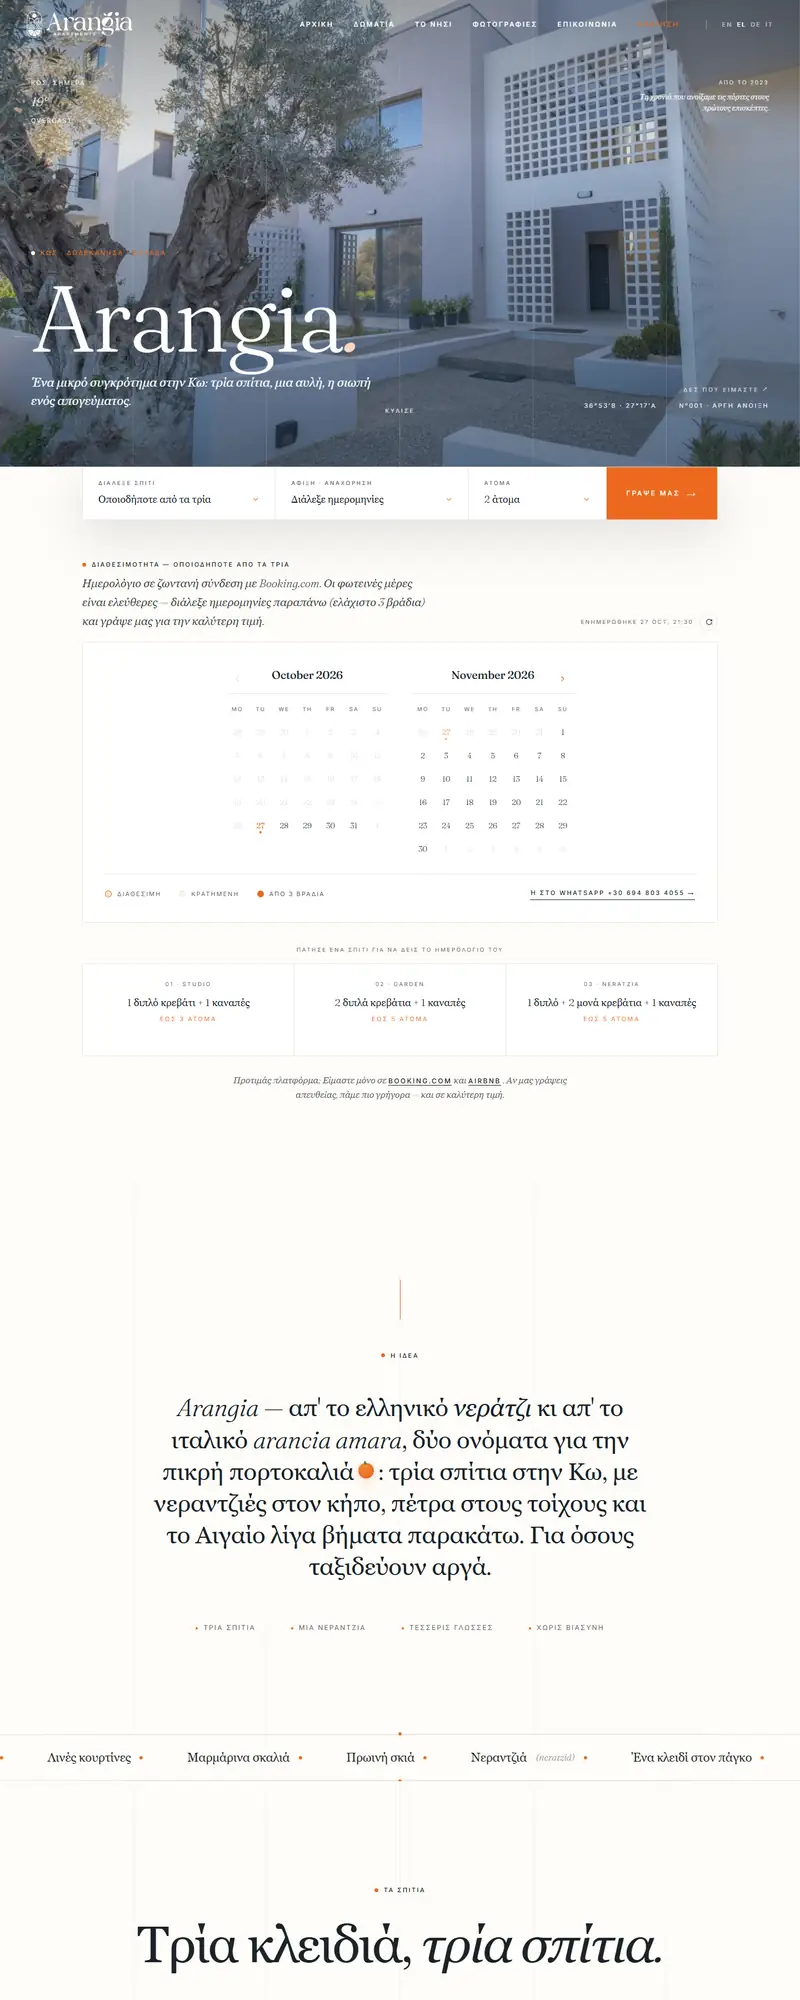
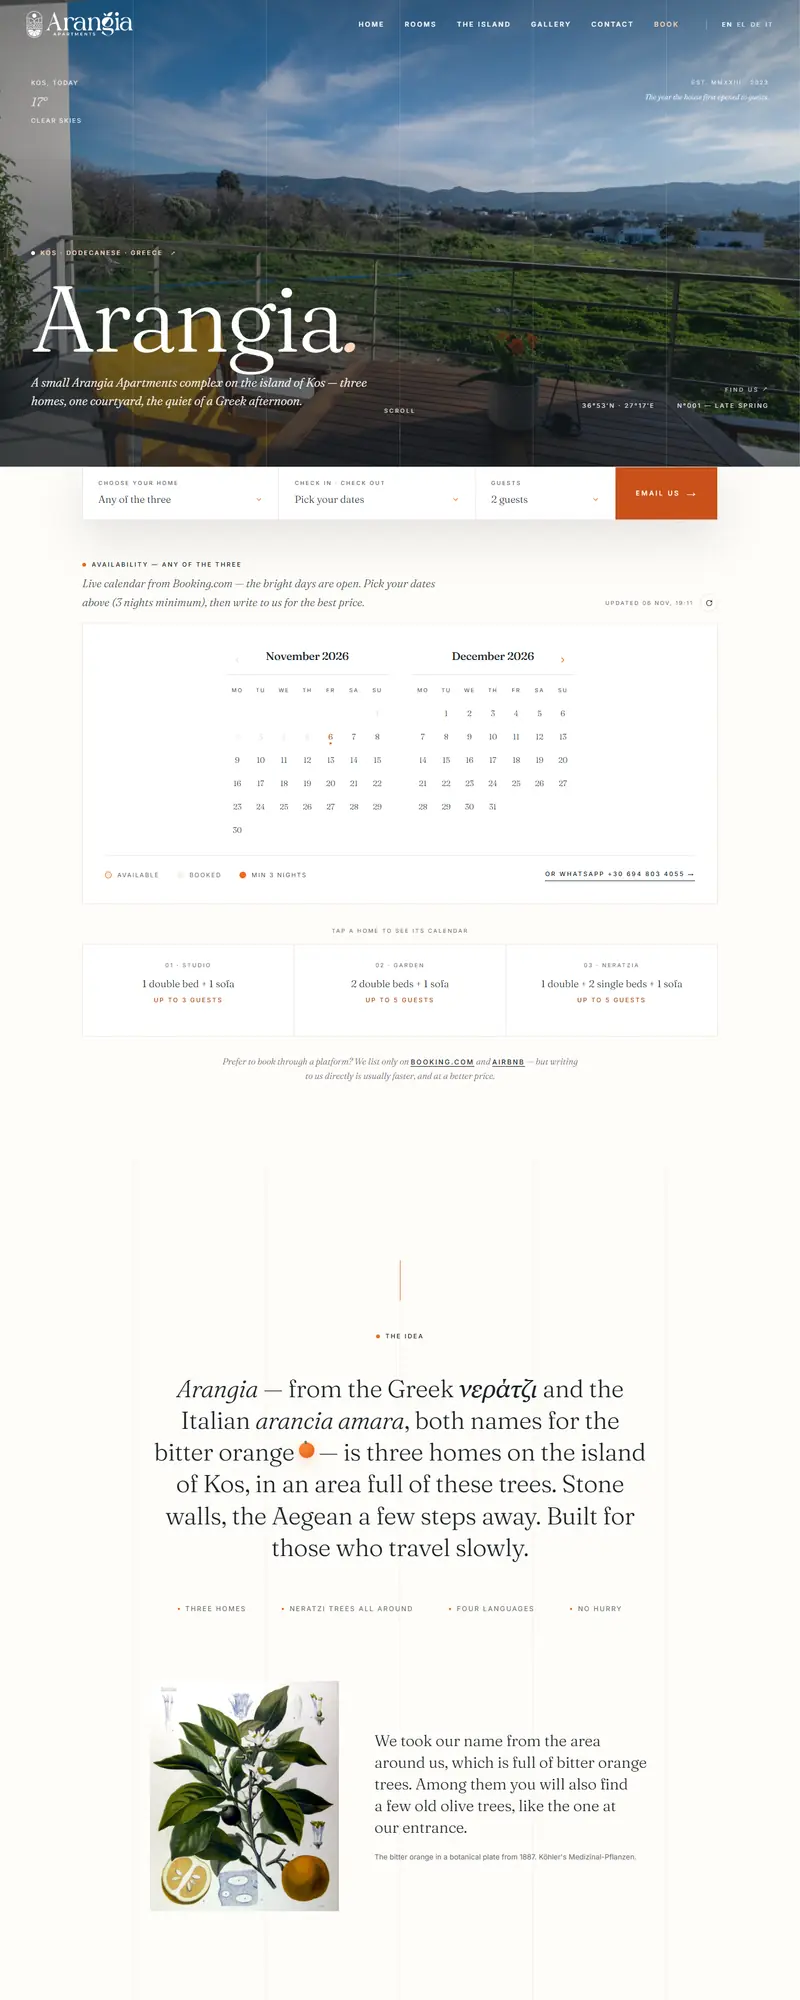
Arangia: the name comes from the area's bitter orange trees, and its picture follows the site
The story said everything grew from one tree; he says the name comes from the
area, which is full of them. The capture and its thumbnail are retaken from the
live site, which now opens on the terrace instead of the olive.

diff --git a/src/content/projects/el/arangia.md b/src/content/projects/el/arangia.md
@@ -1,6 +1,6 @@
 ---
 summary: "Η ιστοσελίδα ενός καταλύματος με δική του ταυτότητα, και η διαχείριση των κρατήσεών του στο Airbnb και στο Booking.com."
-blurb: "Το Arangia δεν μοιάζει με ιστοσελίδα ενοικιάσεων. Το διαβάζεις σαν ταξιδιωτικό περιοδικό ή σαν να μπαίνεις σε ένα μικρό boutique ξενοδοχείο, αργά και ήσυχα, με μια νοσταλγία για τη Μεσόγειο. Δεν προσπαθεί να πουλήσει, σε προσκαλεί. Κι όλα αυτά φυτρώνουν από μία μόνο νεραντζιά."
+blurb: "Το Arangia δεν μοιάζει με ιστοσελίδα ενοικιάσεων. Το διαβάζεις σαν ταξιδιωτικό περιοδικό ή σαν να μπαίνεις σε ένα μικρό boutique ξενοδοχείο, αργά και ήσυχα, με μια νοσταλγία για τη Μεσόγειο. Δεν προσπαθεί να πουλήσει, σε προσκαλεί. Κι όλα αυτά φυτρώνουν από τις νερατζιές της περιοχής."
 tags: ["Web design", "Κρατήσεις", "Λειτουργία"]
 ---
 
@@ -12,7 +12,7 @@ tags: ["Web design", "Κρατήσεις", "Λειτουργία"]
 
 ## Ένα δέντρο
 
-Όλη η ταυτότητα στηρίζεται σε ένα μόνο σύμβολο, τη νεραντζιά. Από εκεί βγαίνει και το όνομα: *νεράντζι* στα ελληνικά, *arancia amara* στα ιταλικά. Και σε αυτήν επιστρέφουν όλα, τα κείμενα, το ημερολόγιο, ο ρυθμός των σελίδων.
+Όλη η ταυτότητα στηρίζεται σε ένα μόνο σύμβολο, τη νερατζιά. Το όνομα ήρθε από την περιοχή, που είναι γεμάτη τέτοια δέντρα: *νεράτζι* στα ελληνικά, *arancia amara* στα ιταλικά. Και στη νερατζιά επιστρέφουν όλα, τα κείμενα, το ημερολόγιο, ο ρυθμός των σελίδων.
 
 ## Αργά, χωρίς βιασύνη
 

diff --git a/src/content/projects/de/arangia.md b/src/content/projects/de/arangia.md
@@ -1,6 +1,6 @@
 ---
 summary: "Markenwebsite für eine Unterkunft sowie das Buchungsmanagement über Airbnb und Booking.com."
-blurb: "Arangia wirkt nicht wie eine Vermietungswebsite, sondern wie ein Reisemagazin oder ein kleines Boutique-Hotel: ruhig, unaufgeregt und geprägt von mediterraner Nostalgie. Die Website verkauft nicht, sie lädt ein. Das gesamte Konzept geht von einem einzigen Bitterorangenbaum aus."
+blurb: "Arangia wirkt nicht wie eine Vermietungswebsite, sondern wie ein Reisemagazin oder ein kleines Boutique-Hotel: ruhig, unaufgeregt und geprägt von mediterraner Nostalgie. Die Website verkauft nicht, sie lädt ein. Das gesamte Konzept geht von den Bitterorangenbäumen der Umgebung aus."
 tags: ["Webdesign", "Buchungen", "Betrieb"]
 ---
 
@@ -12,7 +12,7 @@ Sie wirkt nicht wie eine Vermietungswebsite, sondern wie ein Reisemagazin oder d
 
 ## Ein Baum
 
-Die gesamte Identität beruht auf einem einzigen Symbol: dem Bitterorangenbaum. Von ihm leitet sich der Name ab, *nerantzi* auf Griechisch, *arancia amara* auf Italienisch, und auf ihn beziehen sich die Texte, der Kalender und der Rhythmus der Seiten.
+Die gesamte Identität beruht auf einem einzigen Symbol: dem Bitterorangenbaum. Der Name stammt aus der Umgebung, in der diese Bäume zahlreich wachsen: *neratzi* auf Griechisch, *arancia amara* auf Italienisch. Auf ihn beziehen sich die Texte, der Kalender und der Rhythmus der Seiten.
 
 ## Slow Living
 

diff --git a/src/content/projects/arangia.md b/src/content/projects/arangia.md
@@ -1,7 +1,7 @@
 ---
 title: "Arangia"
 summary: "Property brand site and the booking operation behind it, across Airbnb and Booking.com."
-blurb: "Arangia doesn't look like a rental site. It reads like a travel magazine, or a small boutique hotel: slow, quiet, with a nostalgia for the Mediterranean. It doesn't sell; it invites. And all of it grows from a single bitter orange tree."
+blurb: "Arangia doesn't look like a rental site. It reads like a travel magazine, or a small boutique hotel: slow, quiet, with a nostalgia for the Mediterranean. It doesn't sell; it invites. And all of it grows from the bitter orange trees of the area around it."
 services: [web]
 tags: ["Web design", "Booking", "Ops"]
 url: "https://arangia.gr"
@@ -21,7 +21,7 @@ It does not look like a rental site. It reads like a travel magazine, or the sit
 
 ## One tree
 
-The whole identity rests on a single symbol: the bitter orange tree. The name comes from it, *nerantzi* in Greek, *arancia amara* in Italian, and everything returns to it: the texts, the calendar, the rhythm of the pages.
+The whole identity rests on a single symbol: the bitter orange tree. The name comes from the area, full of these trees: *neratzi* in Greek, *arancia amara* in Italian. And everything returns to it: the texts, the calendar, the rhythm of the pages.
 
 ## Slow living, no rush
 
